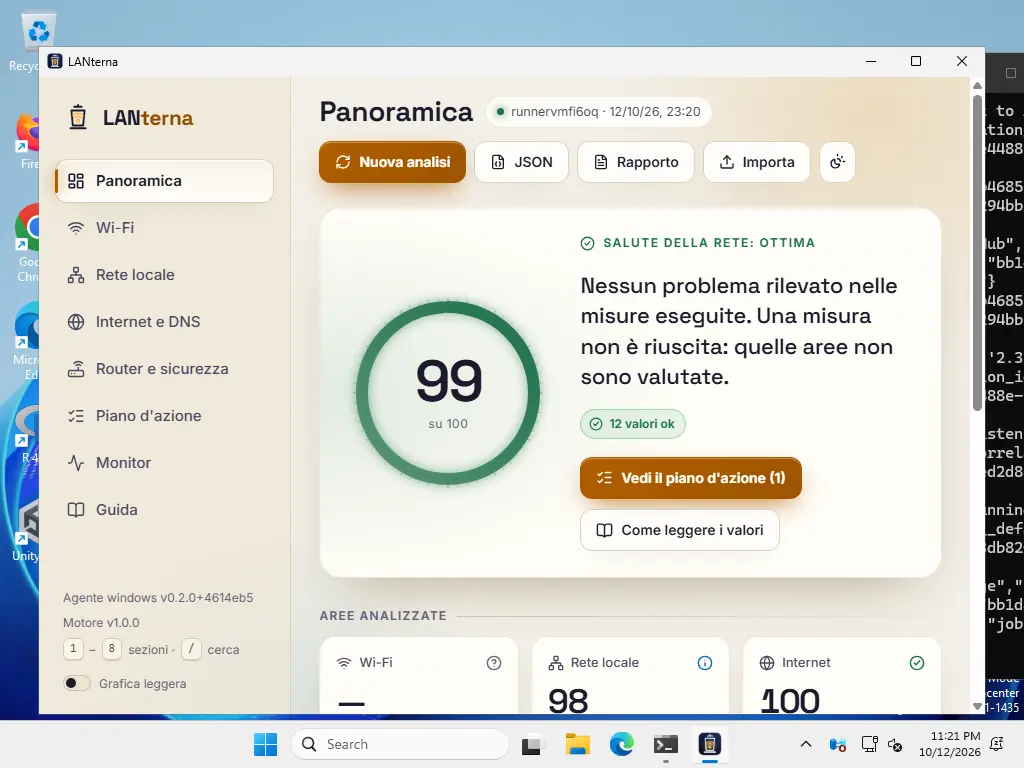
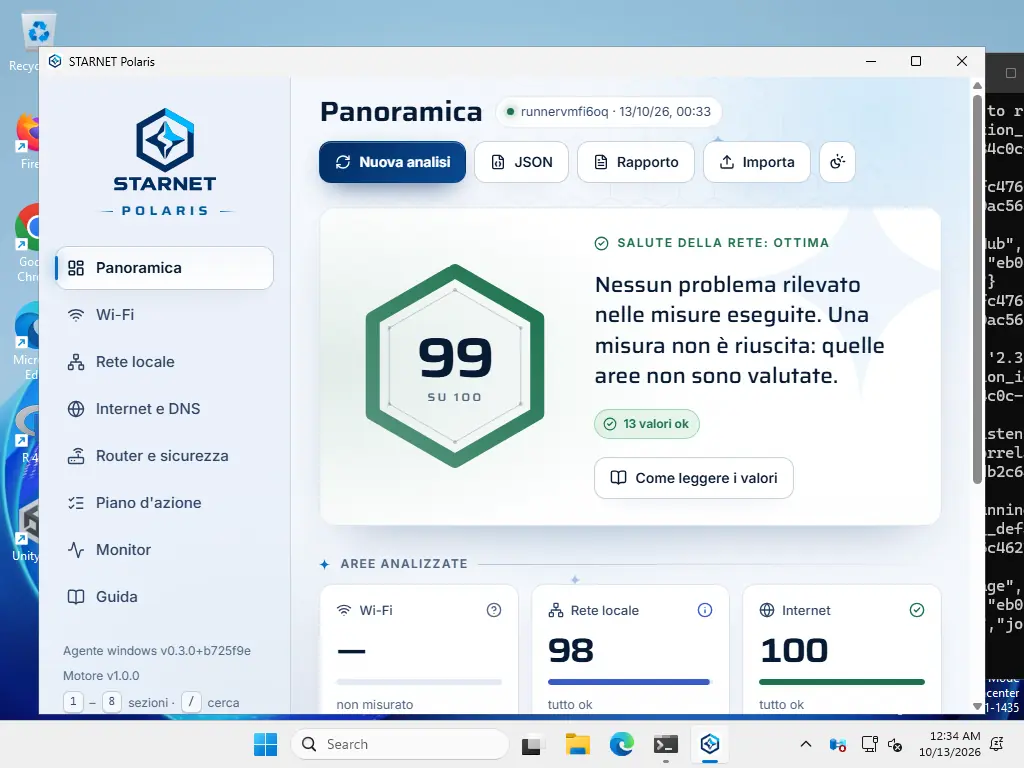
Windows reale 0.3.0: cattura della finestra e barra laterale su schermi bassi
- Cattura della finestra WebView2 vera (CI, Windows Server 2025) con il
  marchio STARNET; risultati nella sezione 7 delle verifiche.
- La finestra alta 720 pixel mostrava l'interruttore "Grafica leggera" fuori
  vista: la barra laterale ora scorre e sugli schermi bassi logo e voci
  sono più compatti (verificato a 640, 720 e 900 pixel di altezza).

Claude-Session: https://claude.ai/code/session_01F7rChLFTzHGSKGbwjwYayv

diff --git a/core/src/ui/styles.css b/core/src/ui/styles.css
@@ -231,6 +231,7 @@ kbd {
 .app { display: grid; grid-template-columns: var(--sidebar-w) minmax(0, 1fr); min-height: 100vh; }
 .sidebar {
   position: sticky; top: 0; height: 100vh; padding: 22px 16px 18px; display: flex; flex-direction: column; gap: 22px;
+  overflow-y: auto; overscroll-behavior: contain; scrollbar-width: thin;
   border-right: 1px solid var(--line);
   background: color-mix(in srgb, var(--bg-2) 72%, transparent);
   backdrop-filter: blur(18px) saturate(140%); -webkit-backdrop-filter: blur(18px) saturate(140%);
@@ -608,6 +609,14 @@ details.card summary::-webkit-details-marker { display: none; }
 
 /* ---------- Transizione del tema ---------- */
 ::view-transition-old(root), ::view-transition-new(root) { animation: none; mix-blend-mode: normal; }
+
+/* ---------- Finestre basse (es. 1024×768 con la barra delle applicazioni) ---------- */
+@media (max-height: 800px) and (min-width: 861px) {
+  .sidebar { padding-top: 14px; gap: 14px; }
+  .brand { gap: 6px; }
+  .brand .brand-mark { width: 84px; height: auto; }
+  .nav-item { padding-top: 8px; padding-bottom: 8px; }
+}
 
 /* ---------- Mobile ---------- */
 @media (max-width: 860px) {

diff --git a/docs/VERIFICHE.md b/docs/VERIFICHE.md
@@ -230,3 +230,12 @@ stesso viola, e su mobile il marchio spariva insieme alla barra laterale (ora il
 - **finestra senza WebView2**: messaggio con il nuovo nome, interfaccia su una porta libera, chiusura con OK.
 
 ![Analisi in corso con l'exe sotto Wine](img/analisi-wine.webp)
+
+**Windows reale (CI, commit `b725f9e`)**, tutti i passi verdi:
+- rapporto, server con le API e finestra WebView2 attiva con titolo "STARNET Polaris";
+- nella cattura si vedono la nuova icona nella barra del titolo e in quella delle applicazioni, il logo a colori nel tema chiaro
+  impostato su quella macchina e il punteggio 99/100 nell'esagono;
+- la finestra alta 720 pixel ha mostrato che in fondo alla barra laterale l'interruttore "Grafica leggera" restava fuori vista:
+  ora la barra scorre e sugli schermi bassi il logo è più compatto.
+
+![STARNET Polaris su Windows reale](img/windows-reale.webp)
